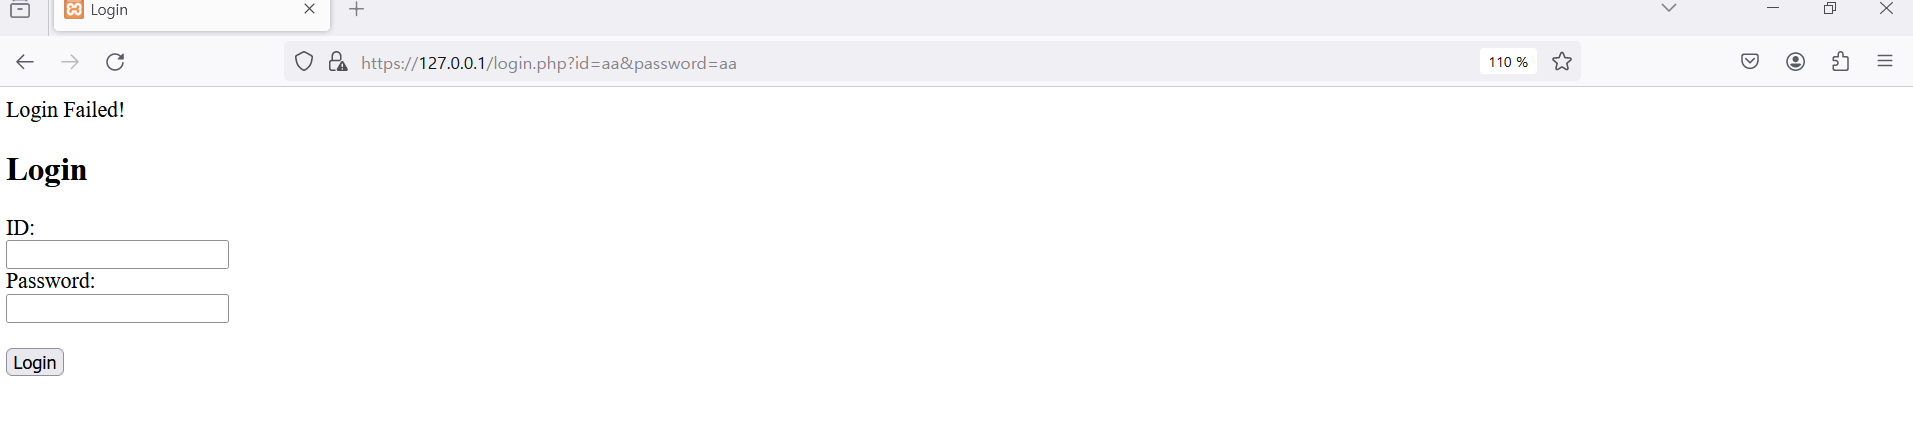
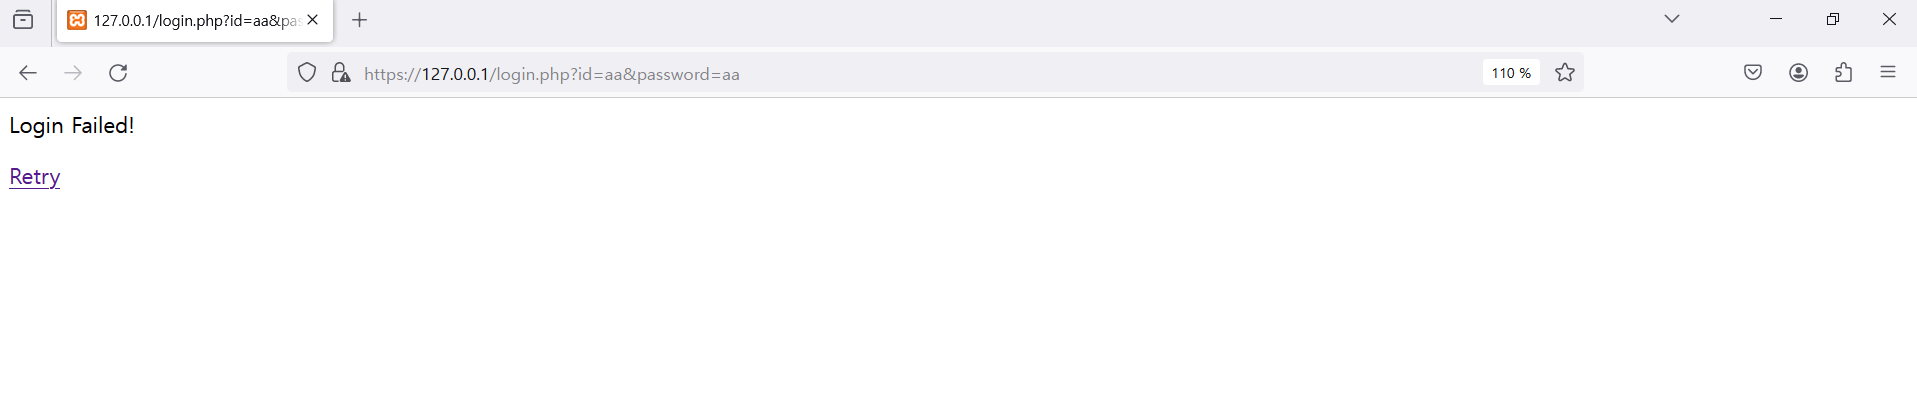
commit

diff --git a/login.php b/login.php
@@ -14,12 +14,16 @@
         // 아이디/패스워드 빈 값인지 확인
         if(empty($id) || empty($password)) {
             echo "<script>alert('아이디와 패스워드를 입력하세요.');history.back(-1);</script>";
+            exit();
         }else {
             // 아이디와 패스워드 일치 여부 확인
             if($id == $input_id && $password == base64_decode($input_password)) {
-                echo "<p>Login Success! Hello $id!</p>";
+                echo "<p>Login Success! Hello $id!</p><a href='login.php'>Back</a>";
+
+                exit();
             } else {
-                echo "<p>Login Failed!</p>";
+                echo "<p>Login Failed!</p><a href='login.php'>Retry</a>";
+                exit();
                 
             }
         }
